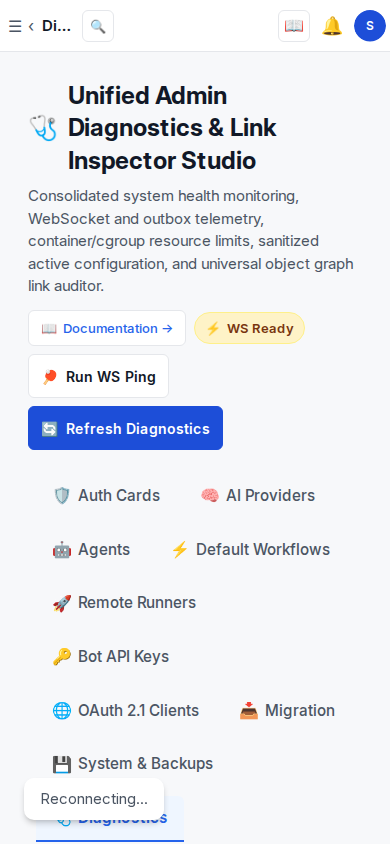
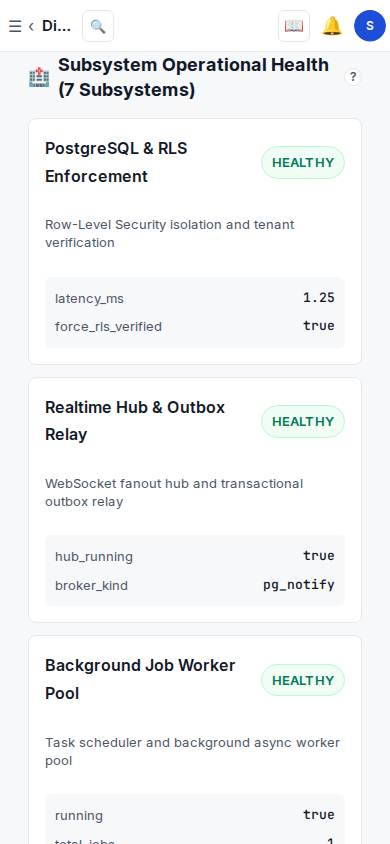
fix(admin): add FieldHelpHint connection thresholds and failure remediation steps (KAN-524)

diff --git a/kanban/web/src/features/admin/AdminDiagnosticsStudio.test.tsx b/kanban/web/src/features/admin/AdminDiagnosticsStudio.test.tsx
@@ -889,12 +889,18 @@ describe('AdminDiagnosticsStudio Component', () => {
       });
     });
 
-    it('renders FieldHelpHint trigger on Subsystem Health header with required ARIA attributes', async () => {
+    it('renders FieldHelpHint triggers on System Summary and Subsystem Health headers with required ARIA attributes', async () => {
       renderStudio('/admin/diagnostics', 'health');
 
       await waitFor(() => {
+        expect(screen.getByTestId('system-summary-help')).toBeDefined();
         expect(screen.getByTestId('subsystem-health-help')).toBeDefined();
       });
+
+      const summaryTrigger = screen.getByTestId('system-summary-help');
+      expect(summaryTrigger.getAttribute('aria-label')).toBe('Help for System Operational Summary');
+      expect(summaryTrigger.getAttribute('aria-haspopup')).toBe('dialog');
+      expect(summaryTrigger.getAttribute('aria-expanded')).toBe('false');
 
       const trigger = screen.getByTestId('subsystem-health-help');
       expect(trigger.getAttribute('aria-label')).toBe('Help for Subsystem Operational Health');
@@ -903,7 +909,7 @@ describe('AdminDiagnosticsStudio Component', () => {
       expect(trigger.className).toContain('field-help-hint');
     });
 
-    it('opens popover dialog on keyboard focus and closes on Escape', async () => {
+    it('opens popover dialog on keyboard focus and closes on Escape with thresholds and remediation', async () => {
       renderStudio('/admin/diagnostics', 'health');
 
       await waitFor(() => {
@@ -924,6 +930,10 @@ describe('AdminDiagnosticsStudio Component', () => {
       const dialog = screen.getByRole('dialog');
       expect(dialog.getAttribute('aria-label')).toBe('Subsystem Operational Health');
       expect(dialog.textContent).toContain('Real-time operational health telemetry across core subsystems');
+      expect(dialog.textContent).toContain('OK (<100ms)');
+      expect(dialog.textContent).toContain('DEGRADED');
+      expect(dialog.textContent).toContain('DOWN');
+      expect(dialog.textContent).toContain('Remediation: Run WS Ping / Refresh Diagnostics');
 
       // Verify doc link href
       const docLink = screen.getByTestId('subsystem-health-help-doc-link');
@@ -936,6 +946,36 @@ describe('AdminDiagnosticsStudio Component', () => {
       });
       expect(screen.queryByTestId('subsystem-health-help-popover')).toBeNull();
       expect(trigger.getAttribute('aria-expanded')).toBe('false');
+    });
+
+    it('opens system-summary-help popover and displays connection thresholds and remediation', async () => {
+      renderStudio('/admin/diagnostics', 'health');
+
+      await waitFor(() => {
+        expect(screen.getByTestId('system-summary-help')).toBeDefined();
+      });
+
+      const trigger = screen.getByTestId('system-summary-help');
+
+      act(() => {
+        trigger.focus();
+      });
+
+      await waitFor(() => {
+        expect(screen.getByTestId('system-summary-help-popover')).toBeDefined();
+      });
+
+      const popover = screen.getByTestId('system-summary-help-popover');
+      expect(popover.textContent).toContain('System Operational Summary');
+      expect(popover.textContent).toContain('OK (<100ms)');
+      expect(popover.textContent).toContain('DEGRADED');
+      expect(popover.textContent).toContain('DOWN');
+      expect(popover.textContent).toContain('Remediation: Run WS Ping / Refresh Diagnostics');
+
+      act(() => {
+        fireEvent.keyDown(trigger, { key: 'Escape' });
+      });
+      expect(screen.queryByTestId('system-summary-help-popover')).toBeNull();
     });
 
     it('renders FieldHelpHint and active tab across Light and Dark themes', async () => {

diff --git a/kanban/web/src/features/admin/AdminDiagnosticsStudio.tsx b/kanban/web/src/features/admin/AdminDiagnosticsStudio.tsx
@@ -436,7 +436,24 @@ export function AdminDiagnosticsStudio({ defaultTab }: AdminDiagnosticsStudioPro
       <AdminStudioSubnav activeTab="diagnostics" isServerAdmin={user?.is_server_admin} />
 
       {/* Top 4-Card Summary Strip */}
-      <section className="admin-diag-summary-strip" aria-label="System Summary Strip">
+      <section className="admin-diag-summary-section" aria-labelledby="summary-heading">
+        <h2 id="summary-heading" className="admin-diag-panel-title">
+          <span aria-hidden="true">📊</span>
+          System Summary
+          <FieldHelpHint
+            title="System Operational Summary"
+            summary="Real-time operational health telemetry across core transports, runtime environments, configuration, and universal graph links."
+            validValues={[
+              { label: 'OK (<100ms)', description: 'Healthy connection across DB, Redis, and worker pool' },
+              { label: 'DEGRADED', description: 'Elevated latency, replica lag, or fallback channel active' },
+              { label: 'DOWN', description: 'Unreachable service, auth failure, or broker disconnected' },
+            ]}
+            caution="Remediation: Run WS Ping / Refresh Diagnostics, and check container logs & DB/Redis connectivity."
+            docHref="/docs/admin-diagnostics-and-link-inspector-studio"
+            testId="system-summary-help"
+          />
+        </h2>
+        <div className="admin-diag-summary-strip" aria-label="System Summary Strip">
         {/* Card 1: Realtime Transport */}
         <div className="admin-diag-summary-card" data-testid="summary-card-realtime">
           <div className="admin-diag-summary-card-header">
@@ -503,6 +520,7 @@ export function AdminDiagnosticsStudio({ defaultTab }: AdminDiagnosticsStudioPro
           <div className="admin-diag-summary-card-footer">
             7-class Link Auditor &amp; Purger embedded
           </div>
+        </div>
         </div>
       </section>
 
@@ -592,6 +610,12 @@ export function AdminDiagnosticsStudio({ defaultTab }: AdminDiagnosticsStudioPro
             <FieldHelpHint
               title="Subsystem Operational Health"
               summary="Real-time operational health telemetry across core subsystems (Database, Realtime Hub, Job Worker, Sandbox, Agents, Runners, Rate Limiter) with automated failover and RLS enforcement."
+              validValues={[
+                { label: 'OK (<100ms)', description: 'Healthy connection across DB, Redis, and worker pool' },
+                { label: 'DEGRADED', description: 'Elevated latency, replica lag, or fallback channel active' },
+                { label: 'DOWN', description: 'Unreachable service, auth failure, or broker disconnected' },
+              ]}
+              caution="Remediation: Run WS Ping / Refresh Diagnostics, and check container logs & DB/Redis connectivity."
               docHref="/docs/admin-diagnostics-and-link-inspector-studio"
               testId="subsystem-health-help"
             />
